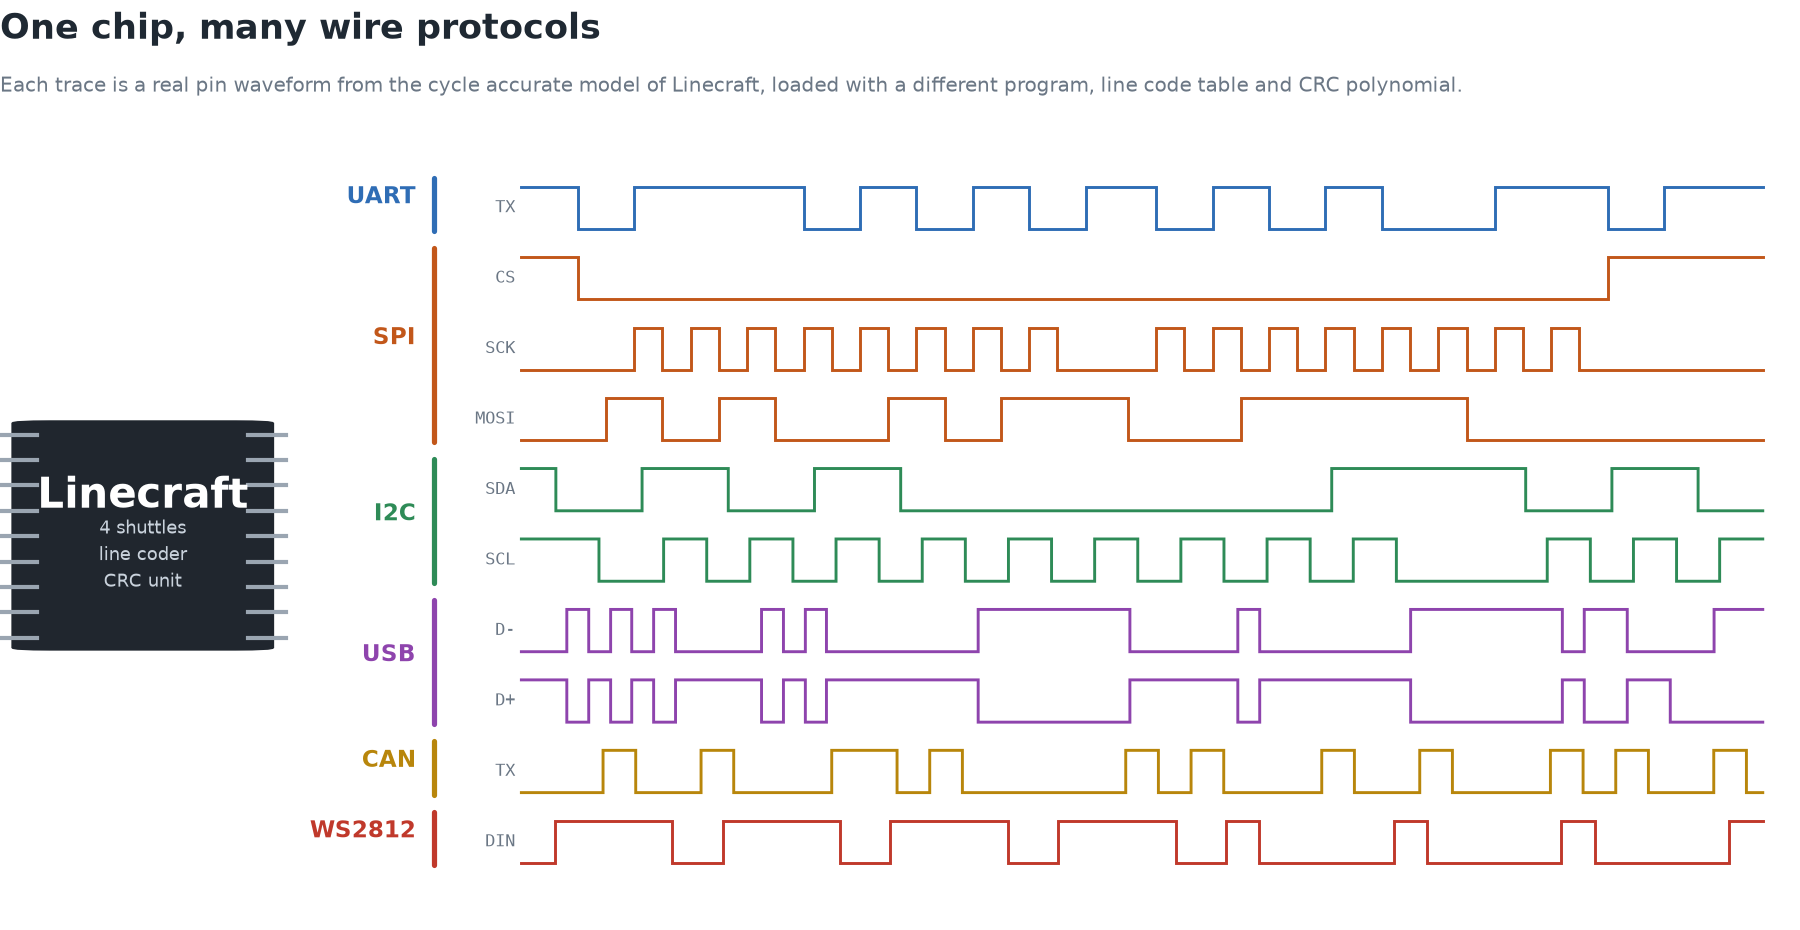
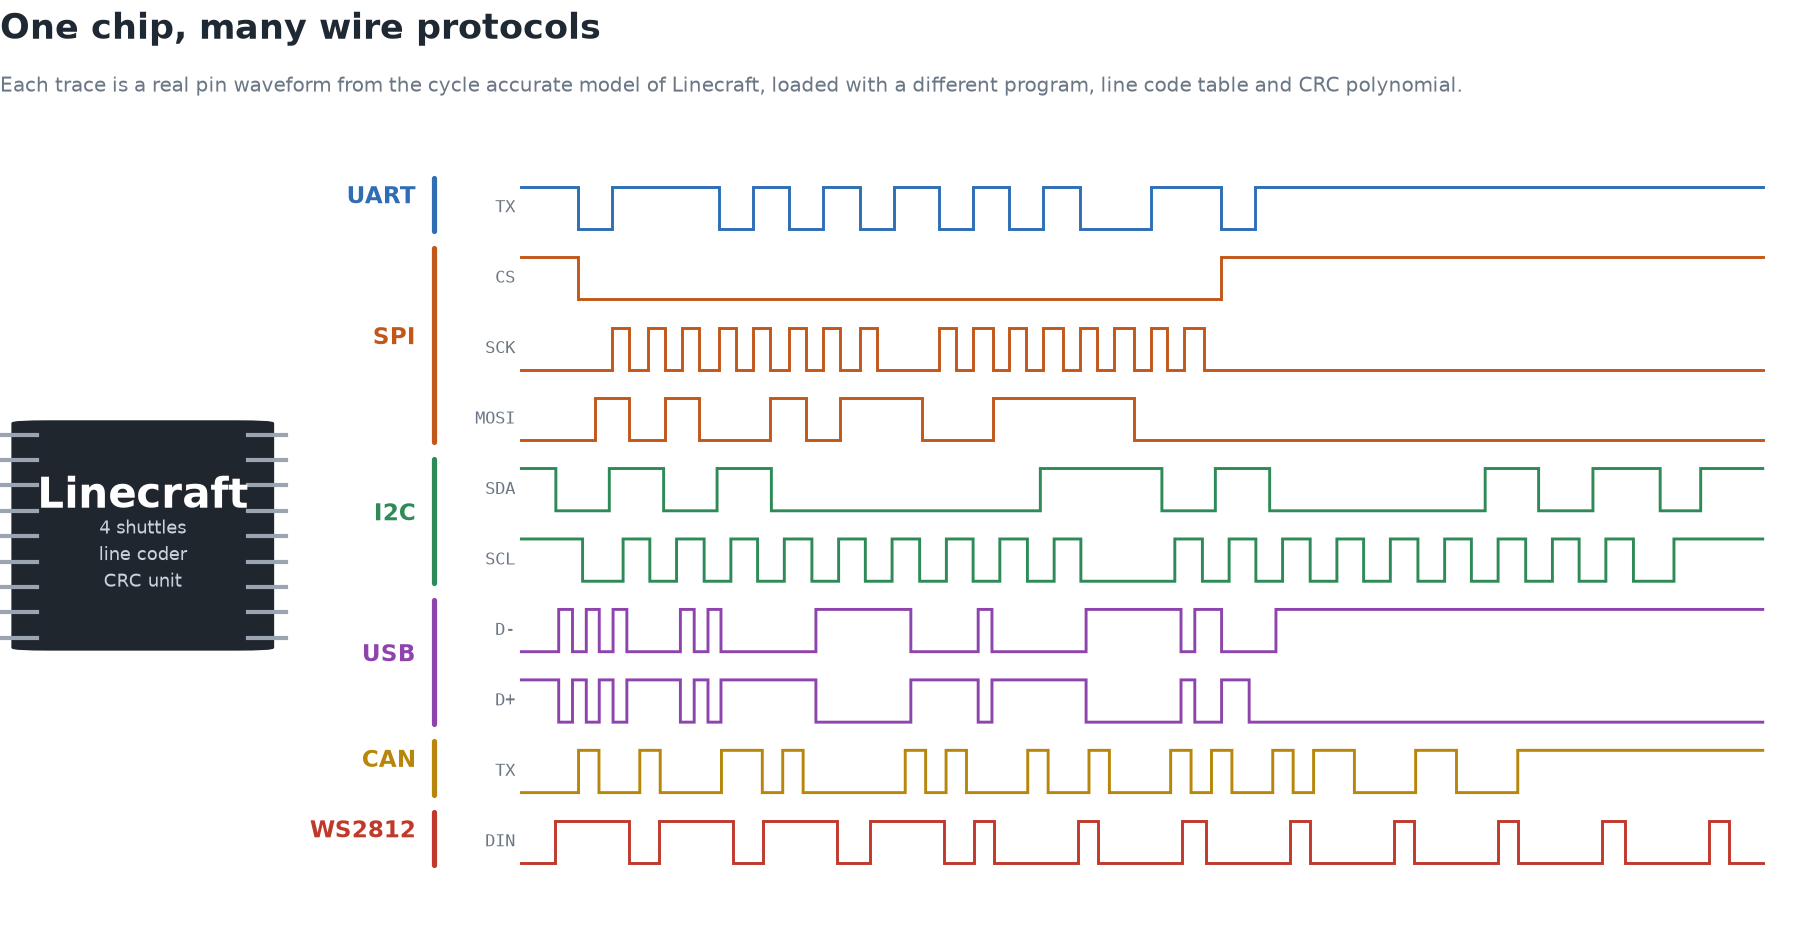
docs: draw the figures at the 25 MHz clock the chip is hardened for

diff --git a/docs/make_figures.py b/docs/make_figures.py
@@ -20,7 +20,7 @@ from linecraft import linecodes, protocols                   # noqa: E402
 from linecraft.model import Chip                              # noqa: E402
 
 OUT = os.path.join(ROOT, "docs", "img")
-CLK = 40e6
+CLK = 25e6
 CSN_HIGH = 0x80
 
 INK = "#1f2933"
